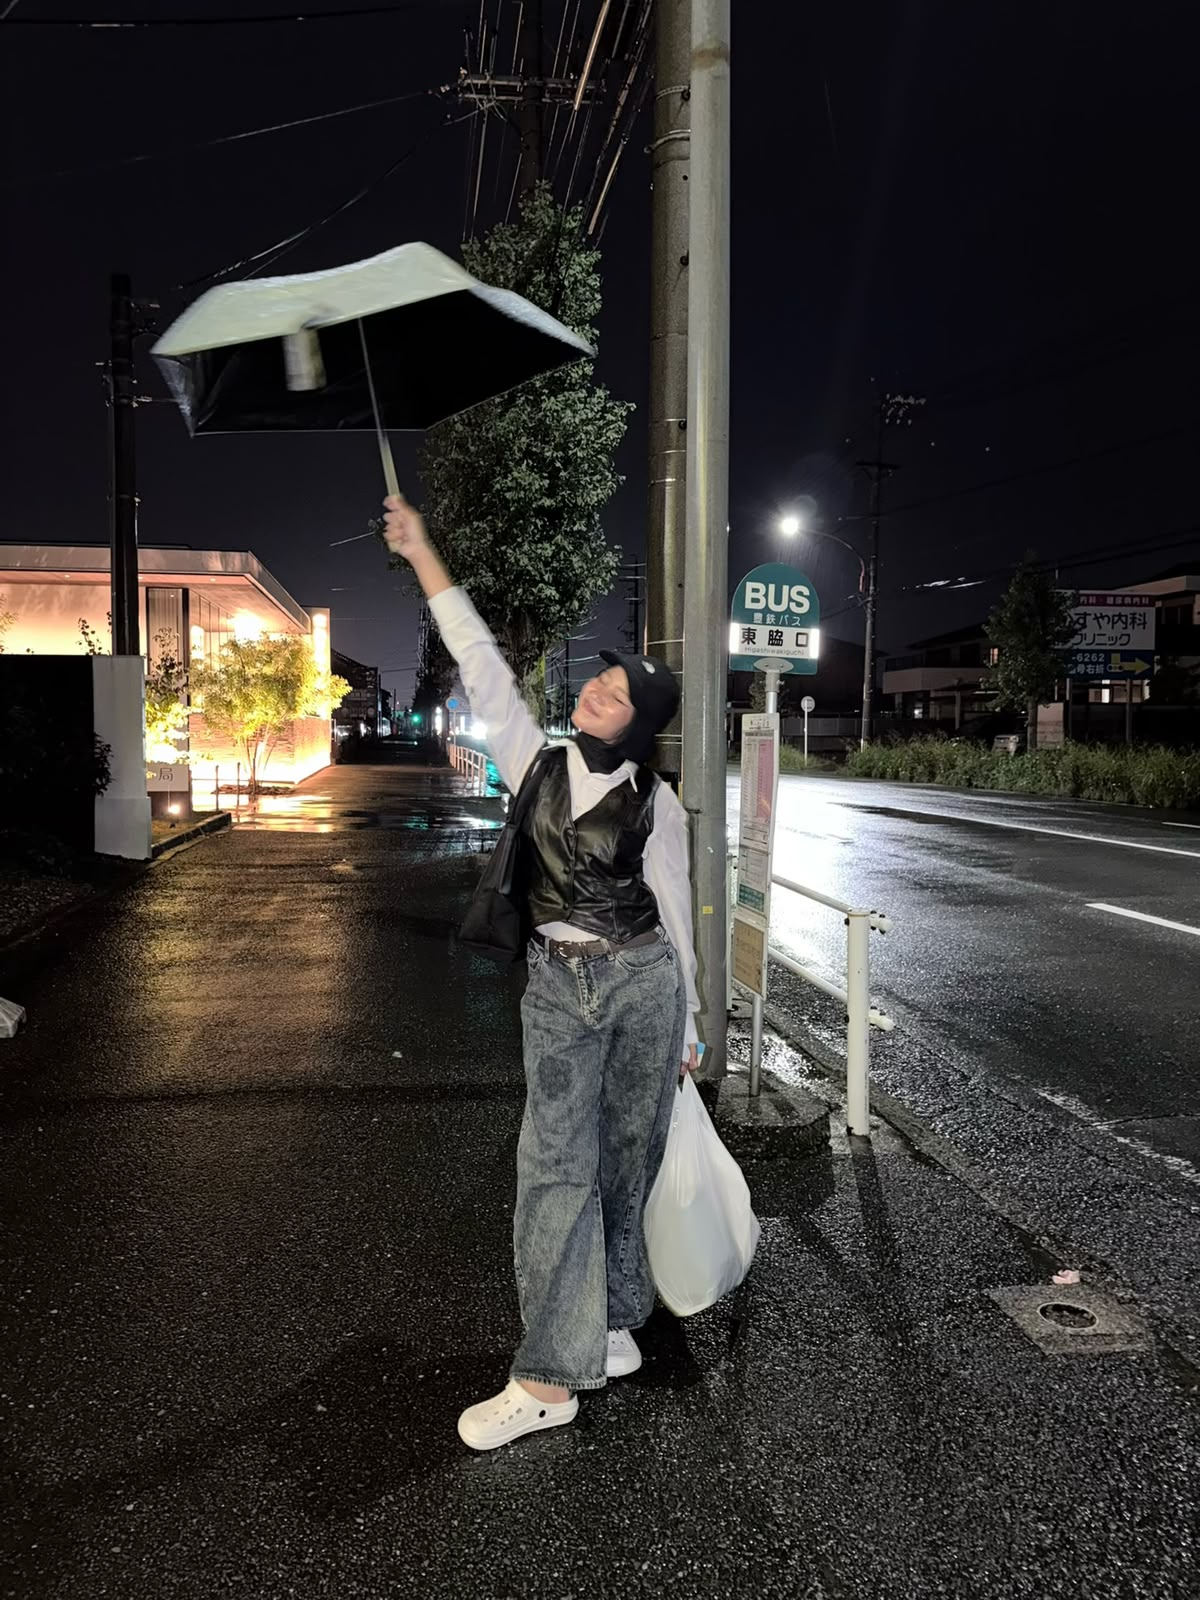
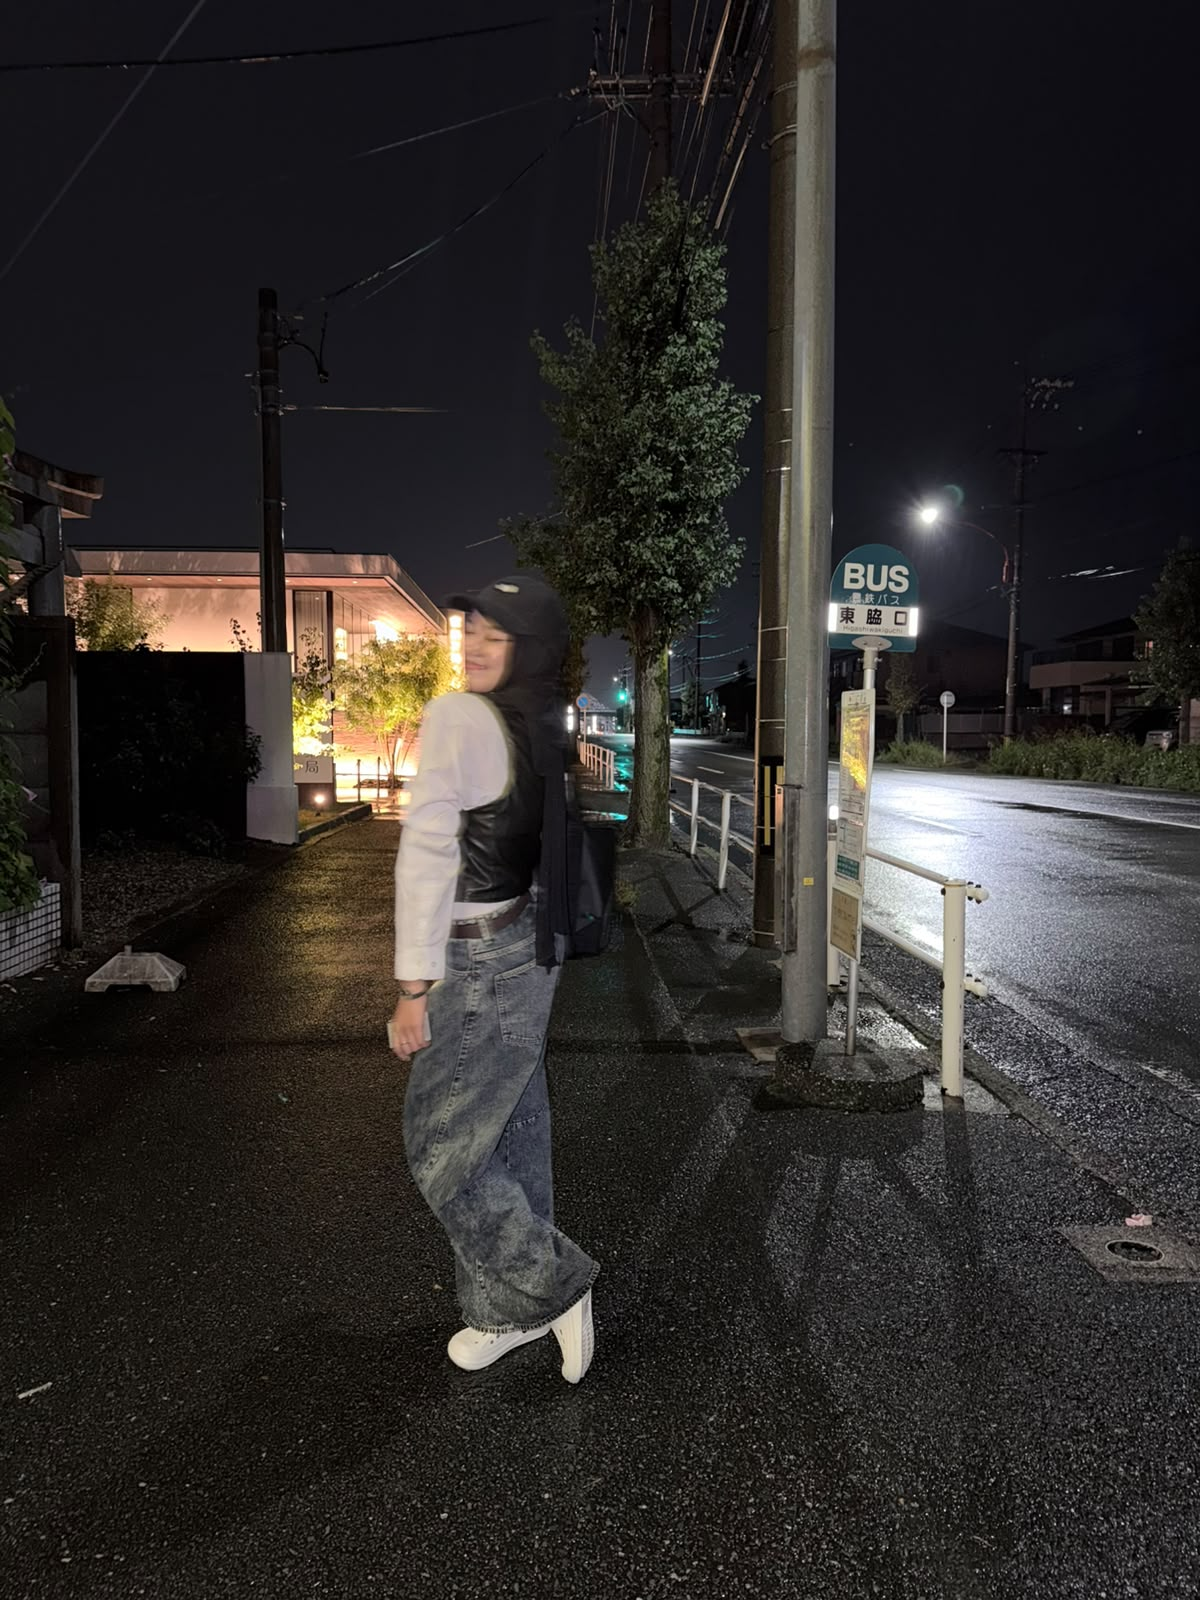
Hapus foto Detik Bahagia dan rapikan total 20 foto galeri

diff --git a/script.js b/script.js
@@ -5,26 +5,29 @@
  */
 
 // ==========================================================================
-// 1. DATA ASSETS: 17 MEMORY PHOTOS FROM IMAGE/ FOLDER
+// 1. DATA ASSETS: 20 MEMORY PHOTOS FROM IMAGE/ FOLDER
 // ==========================================================================
 const GALLERY_PHOTOS = [
   { file: "Image/WhatsApp Image 2026-09-21 at 17.10.32 (1).jpeg", title: "Momen Indah", date: "Kenangan Manis #1", pin: "🌸" },
   { file: "Image/WhatsApp Image 2026-09-21 at 17.10.32 (2).jpeg", title: "Senyuman Manis", date: "Kenangan Manis #2", pin: "✨" },
-  { file: "Image/WhatsApp Image 2026-09-21 at 17.10.32 (3).jpeg", title: "Detik Bahagia", date: "Kenangan Manis #3", pin: "💖" },
-  { file: "Image/WhatsApp Image 2026-09-21 at 17.10.32.jpeg", title: "Ceria Selalu", date: "Kenangan Manis #4", pin: "⭐" },
-  { file: "Image/WhatsApp Image 2026-09-21 at 17.10.34 (1).jpeg", title: "Hari Yang Indah", date: "Kenangan Manis #5", pin: "🌼" },
-  { file: "Image/WhatsApp Image 2026-09-21 at 17.10.34 (2).jpeg", title: "Tawa Riang", date: "Kenangan Manis #6", pin: "🌷" },
-  { file: "Image/WhatsApp Image 2026-09-21 at 17.10.34.jpeg", title: "Bersinar Terang", date: "Kenangan Manis #7", pin: "🎀" },
-  { file: "Image/WhatsApp Image 2026-09-21 at 17.21.36 (1).jpeg", title: "Gaya Anggun", date: "Kenangan Manis #8", pin: "🌸" },
-  { file: "Image/WhatsApp Image 2026-09-21 at 17.21.36.jpeg", title: "Potret Istimewa", date: "Kenangan Manis #9", pin: "✨" },
-  { file: "Image/WhatsApp Image 2026-09-21 at 17.21.37 (1).jpeg", title: "Matahari Pagi", date: "Kenangan Manis #10", pin: "⭐" },
-  { file: "Image/WhatsApp Image 2026-09-21 at 17.21.37.jpeg", title: "Bunga Hati", date: "Kenangan Manis #11", pin: "🌹" },
-  { file: "Image/WhatsApp Image 2026-09-21 at 17.21.38 (1).jpeg", title: "Pesona Menawan", date: "Kenangan Manis #12", pin: "💖" },
-  { file: "Image/WhatsApp Image 2026-09-21 at 17.21.38.jpeg", title: "Senyuman Hangat", date: "Kenangan Manis #13", pin: "🌼" },
-  { file: "Image/WhatsApp Image 2026-09-21 at 17.21.39 (1).jpeg", title: "Dunia Bersamamu", date: "Kenangan Manis #14", pin: "🌷" },
-  { file: "Image/WhatsApp Image 2026-09-21 at 17.21.39 (2).jpeg", title: "Detik Abadi", date: "Kenangan Manis #15", pin: "🎀" },
-  { file: "Image/WhatsApp Image 2026-09-21 at 17.21.39.jpeg", title: "Terindah & Abadi", date: "Kenangan Manis #16", pin: "✨" },
-  { file: "Image/WhatsApp Image 2026-09-21 at 17.21.40.jpeg", title: "Happy 21st Birthday, Septi! 🎂", date: "Kenangan Manis #17", pin: "💖" }
+  { file: "Image/WhatsApp Image 2026-09-21 at 17.10.32.jpeg", title: "Ceria Selalu", date: "Kenangan Manis #3", pin: "⭐" },
+  { file: "Image/WhatsApp Image 2026-09-21 at 17.10.34 (1).jpeg", title: "Hari Yang Indah", date: "Kenangan Manis #4", pin: "🌼" },
+  { file: "Image/WhatsApp Image 2026-09-21 at 17.10.34 (2).jpeg", title: "Tawa Riang", date: "Kenangan Manis #5", pin: "🌷" },
+  { file: "Image/WhatsApp Image 2026-09-21 at 17.10.34.jpeg", title: "Bersinar Terang", date: "Kenangan Manis #6", pin: "🎀" },
+  { file: "Image/WhatsApp Image 2026-09-21 at 17.11.10.jpeg", title: "Pesona Cantik", date: "Kenangan Manis #7", pin: "🌸" },
+  { file: "Image/WhatsApp Image 2026-09-21 at 17.21.35.jpeg", title: "Sinar Kebahagiaan", date: "Kenangan Manis #8", pin: "✨" },
+  { file: "Image/WhatsApp Image 2026-09-21 at 17.21.36 (1).jpeg", title: "Gaya Anggun", date: "Kenangan Manis #9", pin: "⭐" },
+  { file: "Image/WhatsApp Image 2026-09-21 at 17.21.36 (2).jpeg", title: "Ekspresi Manis", date: "Kenangan Manis #10", pin: "🌼" },
+  { file: "Image/WhatsApp Image 2026-09-21 at 17.21.36.jpeg", title: "Potret Istimewa", date: "Kenangan Manis #11", pin: "🌹" },
+  { file: "Image/WhatsApp Image 2026-09-21 at 17.21.37 (1).jpeg", title: "Matahari Pagi", date: "Kenangan Manis #12", pin: "💖" },
+  { file: "Image/WhatsApp Image 2026-09-21 at 17.21.37.jpeg", title: "Bunga Hati", date: "Kenangan Manis #13", pin: "🌷" },
+  { file: "Image/WhatsApp Image 2026-09-21 at 17.21.38 (1).jpeg", title: "Pesona Menawan", date: "Kenangan Manis #14", pin: "🎀" },
+  { file: "Image/WhatsApp Image 2026-09-21 at 17.21.38 (2).jpeg", title: "Keceriaan Abadi", date: "Kenangan Manis #15", pin: "✨" },
+  { file: "Image/WhatsApp Image 2026-09-21 at 17.21.38.jpeg", title: "Senyuman Hangat", date: "Kenangan Manis #16", pin: "🌸" },
+  { file: "Image/WhatsApp Image 2026-09-21 at 17.21.39 (1).jpeg", title: "Dunia Bersamamu", date: "Kenangan Manis #17", pin: "⭐" },
+  { file: "Image/WhatsApp Image 2026-09-21 at 17.21.39 (2).jpeg", title: "Detik Abadi", date: "Kenangan Manis #18", pin: "💖" },
+  { file: "Image/WhatsApp Image 2026-09-21 at 17.21.39.jpeg", title: "Terindah & Abadi", date: "Kenangan Manis #19", pin: "🌼" },
+  { file: "Image/WhatsApp Image 2026-09-21 at 17.21.40.jpeg", title: "Happy 21st Birthday, Septi! 🎂", date: "Kenangan Manis #20", pin: "💖" }
 ];
 
 // ==========================================================================
@@ -304,7 +307,7 @@ function initPolaroidGallery() {
 
   if (!board) return;
 
-  // Generate cards for all 17 photos
+  // Generate cards for all 20 photos
   board.innerHTML = '';
   GALLERY_PHOTOS.forEach((photo, idx) => {
     const card = document.createElement('div');

diff --git a/index.html b/index.html
@@ -317,7 +317,7 @@
 
           <!-- Interactive Drag Area / Scattered Board -->
           <div class="polaroid-scatter-board" id="polaroid-board">
-            <!-- Dynamically populated with all 17 photos from Image/ via script.js -->
+            <!-- Dynamically populated with all 20 photos from Image/ via script.js -->
           </div>
         </div>
 
